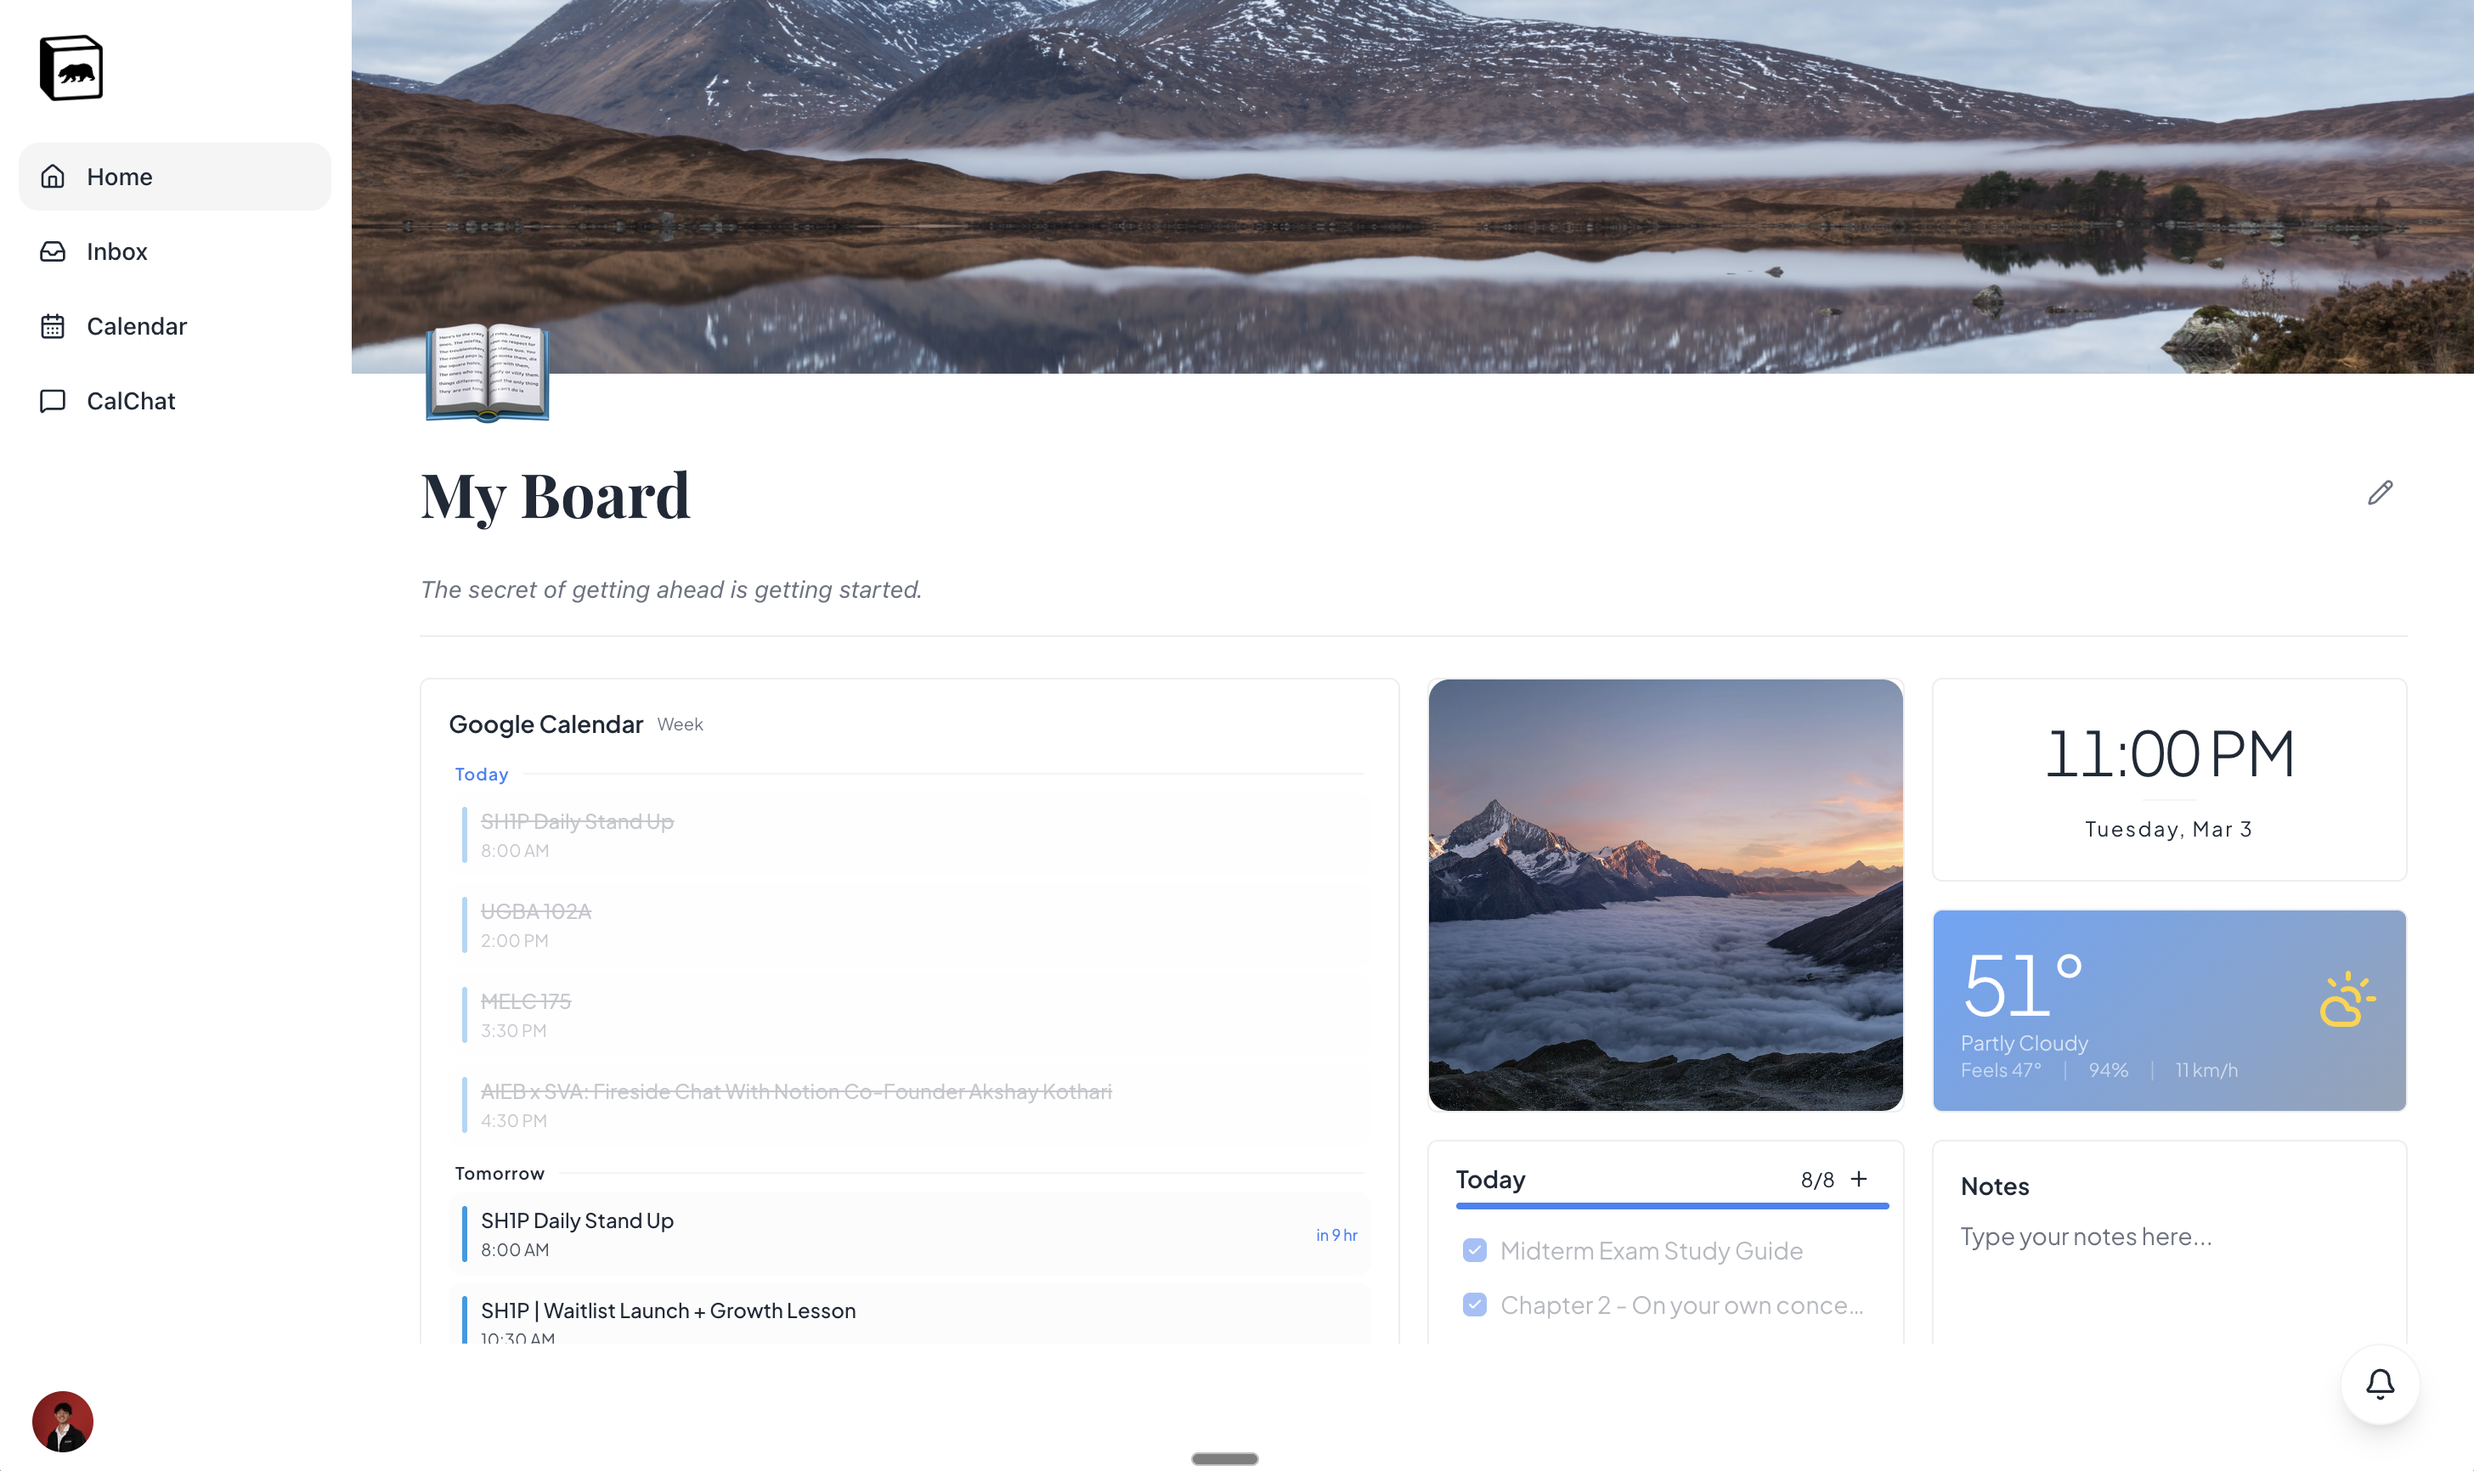
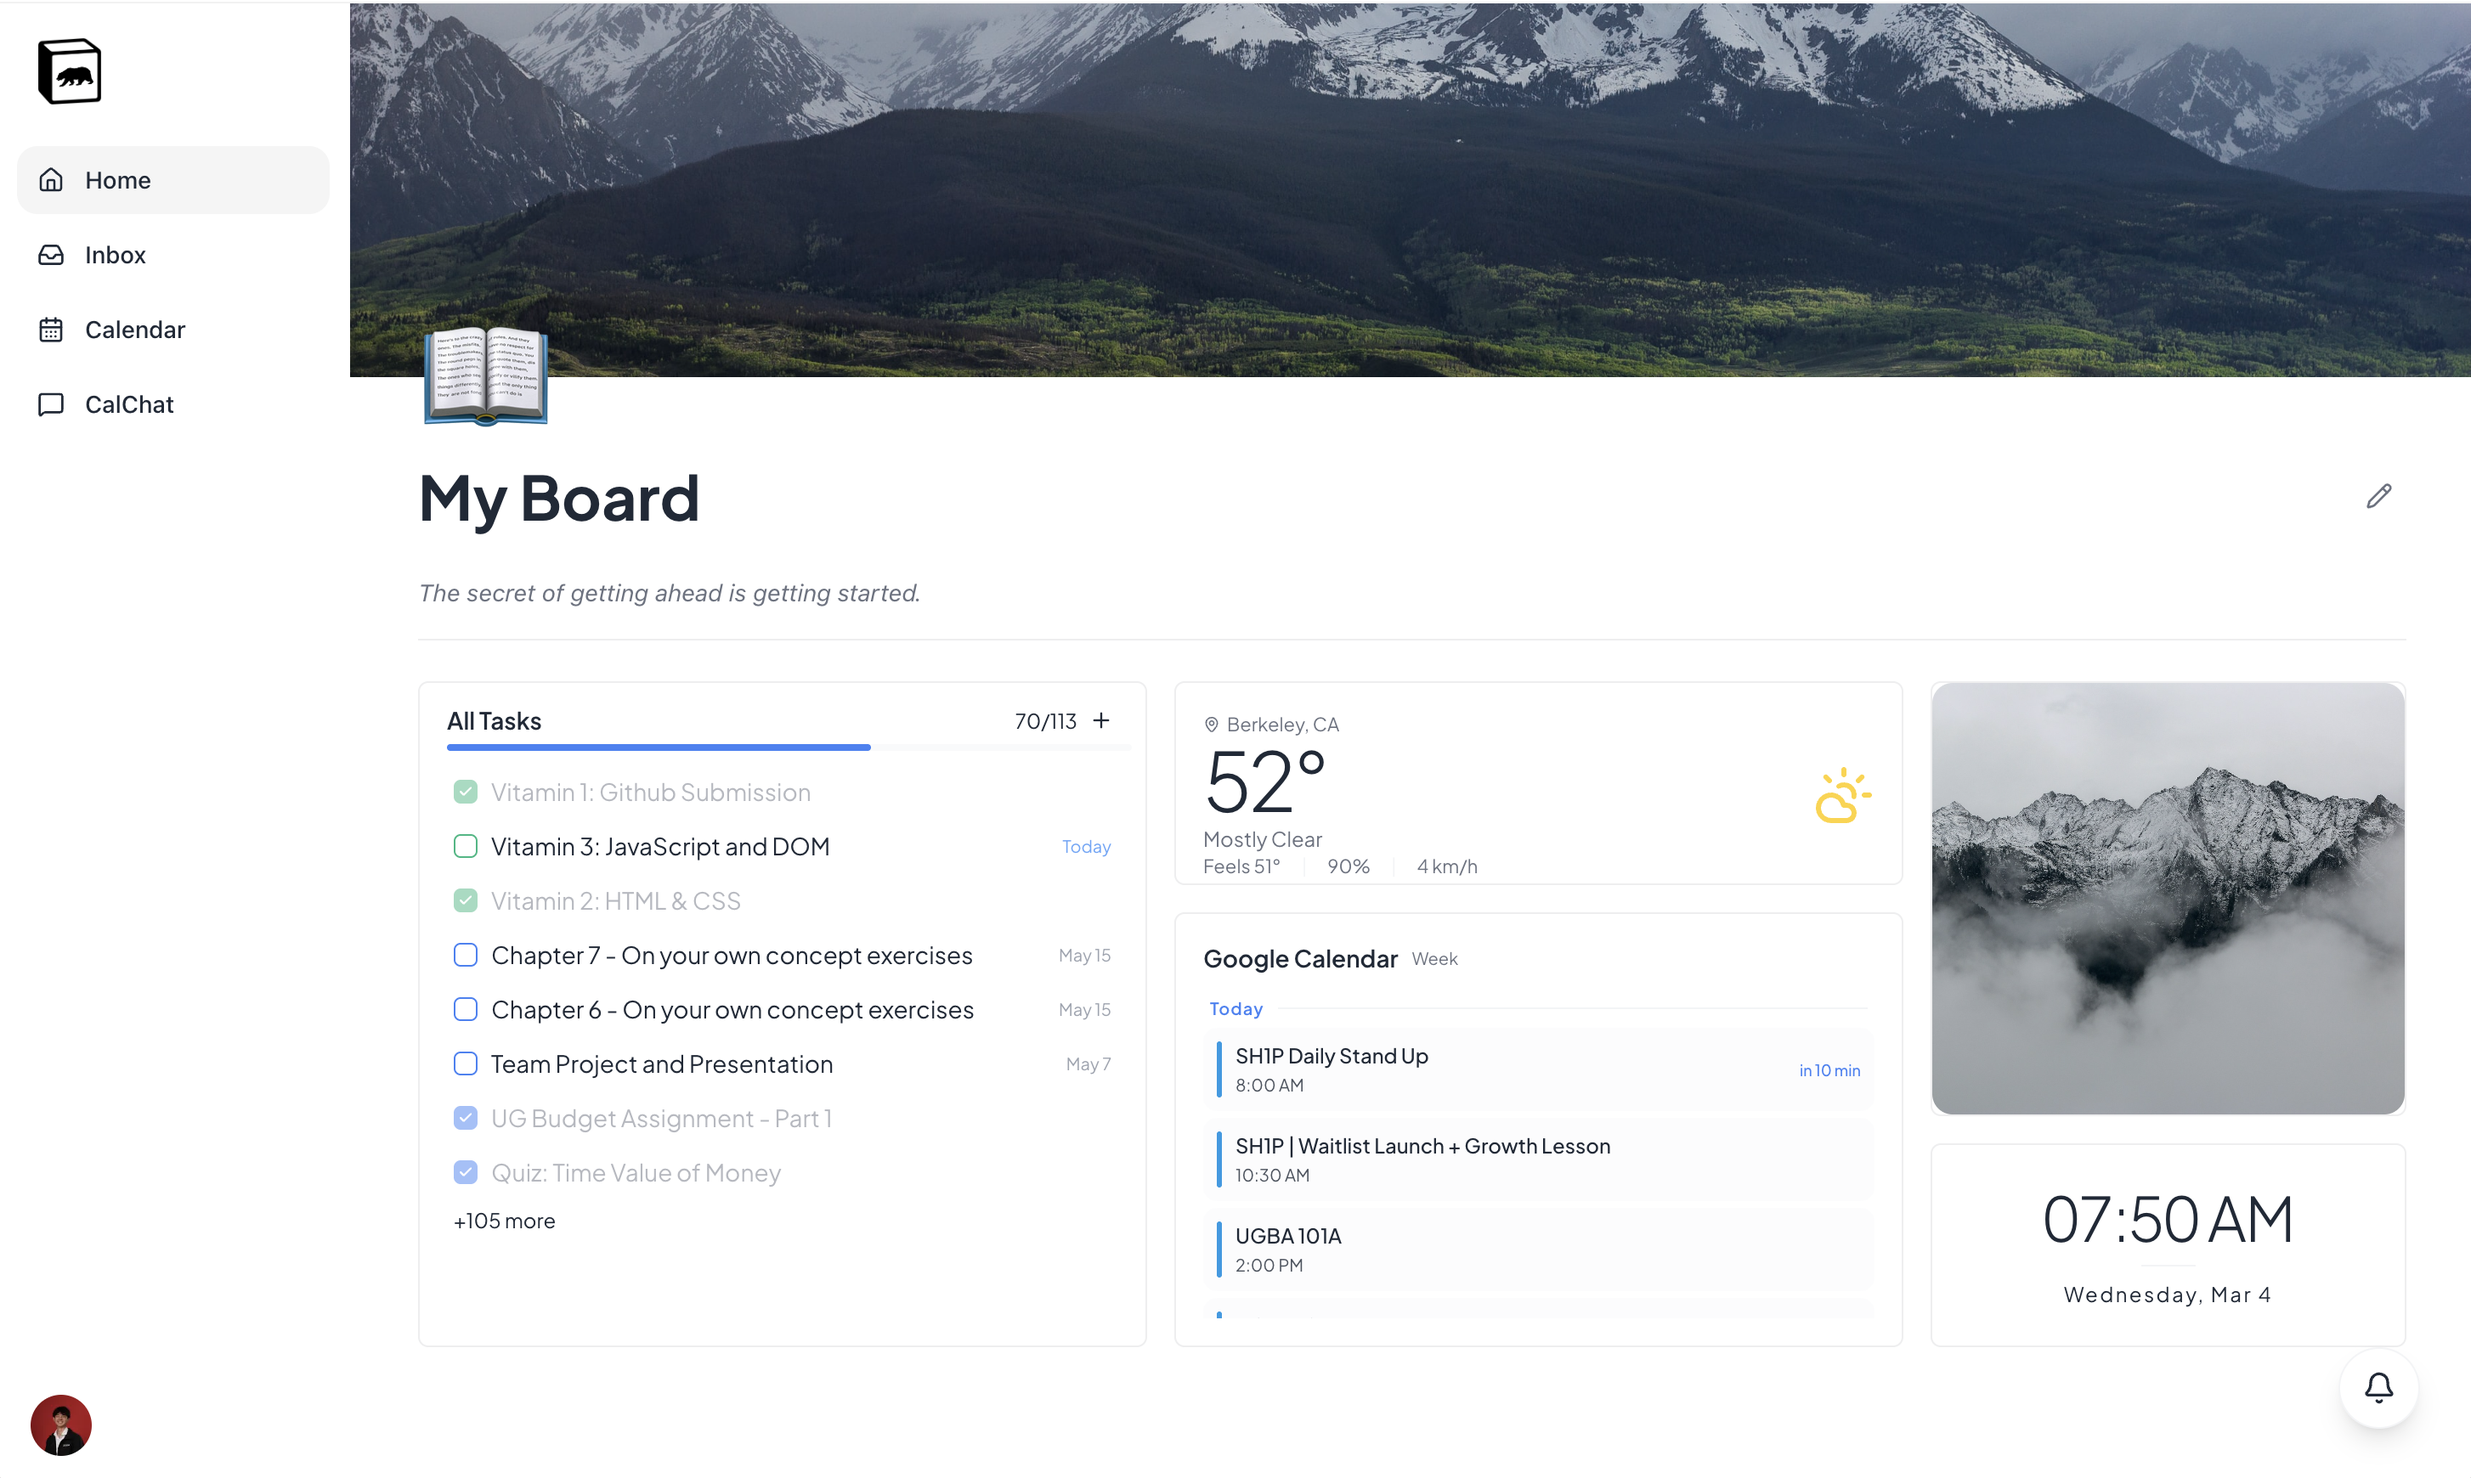
Replace hero carousel with static board screenshot, remove spots badge from modal

diff --git a/src/components/landing/Hero.tsx b/src/components/landing/Hero.tsx
@@ -1,36 +1,21 @@
 "use client";
 
-import { useState, useEffect, useRef, useCallback } from "react";
+import { useState, useEffect, useRef } from "react";
 import Link from "next/link";
-import { Mockup, MockupFrame } from "@/components/ui/mockup";
-import { InteractiveHoverButton } from "@/components/ui/interactive-hover-button";
 import GoogleOneTap from "@/components/auth/GoogleOneTap";
 import BentoFeatures from "@/components/landing/BentoFeatures";
 import FadeIn from "@/components/landing/FadeIn";
 import FeatureHighlight from "@/components/landing/FeatureHighlight";
 import TestimonialSection from "@/components/landing/TestimonialSection";
 
-const HERO_IMAGES = [
-  { src: "/app-screenshot-board.png", alt: "caltodo board view with widgets and calendar" },
-  { src: "/app-screenshot-calendar.png", alt: "caltodo calendar view with synced assignments" },
-  { src: "/app-screenshot-inbox.png", alt: "caltodo inbox view with task list and detail panel" },
-];
 
 /**
  * Hero landing page for unauthenticated users.
  * Always white background with black text.
  */
 export default function Hero() {
-  const [activeImage, setActiveImage] = useState(0);
   const [userCount, setUserCount] = useState<number | null>(null);
   const [showSpotsModal, setShowSpotsModal] = useState(false);
-
-  useEffect(() => {
-    const interval = setInterval(() => {
-      setActiveImage((prev) => (prev + 1) % HERO_IMAGES.length);
-    }, 4000);
-    return () => clearInterval(interval);
-  }, []);
 
   // Fetch user count for the spots counter
   useEffect(() => {
@@ -197,40 +182,20 @@ export default function Hero() {
 
         </div>
 
-        {/* Mockup — scroll-driven scale animation */}
+        {/* Hero screenshot */}
         <div
           ref={mockupRef}
           className="mt-1 sm:mt-1.5 w-full sm:max-w-4xl mx-auto relative px-1 sm:px-0"
         >
           <div className="relative sm:max-h-[50vh] md:max-h-none rounded-2xl p-1.5 sm:p-2 bg-gray-100 border border-gray-200">
             <div className="relative w-full overflow-hidden rounded-xl">
-              {HERO_IMAGES.map((img, i) => (
-                <img
-                  key={img.src}
-                  src={img.src}
-                  alt={img.alt}
-                  className={`w-full transition-opacity duration-700 ease-in-out block ${
-                    i === 0 ? "relative" : "absolute inset-0"
-                  }`}
-                  style={{ opacity: activeImage === i ? 1 : 0 }}
-                />
-              ))}
-              {/* Bottom fade to hide hard crop line on height-clipped screens */}
+              <img
+                src="/app-screenshot-board.png"
+                alt="caltodo board view with widgets and calendar"
+                className="w-full block"
+              />
               <div className="absolute bottom-0 left-0 right-0 h-16 pointer-events-none sm:block md:hidden" style={{ background: "linear-gradient(to bottom, transparent, white)" }} />
             </div>
-          </div>
-          {/* Image indicator dots — outside clipped area */}
-          <div className="flex justify-center gap-2 mt-3 relative z-20">
-            {HERO_IMAGES.map((_, i) => (
-              <button
-                key={i}
-                onClick={() => setActiveImage(i)}
-                className={`w-2 h-2 rounded-full transition-all duration-300 ${
-                  activeImage === i ? "bg-black w-6" : "bg-black/20"
-                }`}
-                aria-label={`Show screenshot ${i + 1}`}
-              />
-            ))}
           </div>
         </div>
 
@@ -292,10 +257,6 @@ export default function Hero() {
           </button>
 
           <div className="px-6 pt-6 pb-3 sm:px-8 sm:pt-8 sm:pb-4">
-            <div className="flex items-center gap-1.5 mb-4 sm:mb-5">
-              <img src="/cal-logo.png" alt="UC Berkeley" className="w-3.5 h-3.5 sm:w-4 sm:h-4 object-contain opacity-40" />
-              <p className="text-[11px] sm:text-xs text-black/40 tracking-wide">{500 - (userCount ?? 326)} spots remaining</p>
-            </div>
             <h3 className="text-xl sm:text-2xl font-semibold text-black leading-tight tracking-tight" style={{ fontFamily: '-apple-system, "SF Pro Display", BlinkMacSystemFont, "Segoe UI", Roboto, Helvetica, Arial, sans-serif' }}>
               free for life. seriously.
             </h3>
